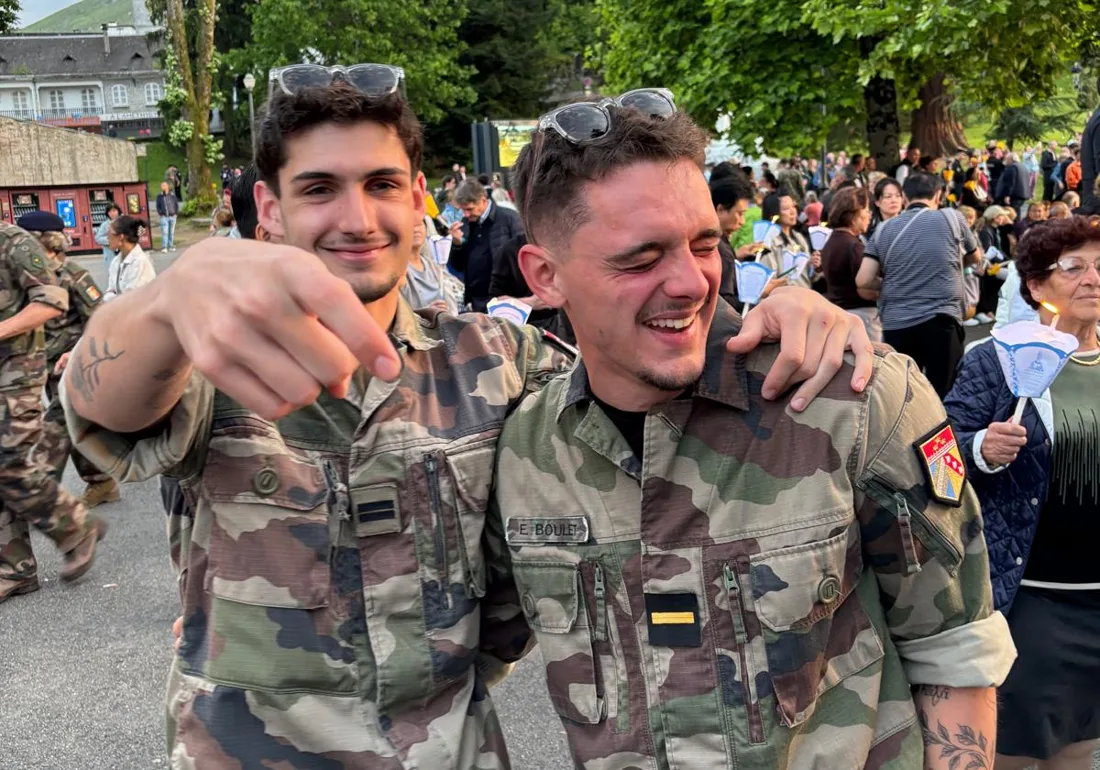
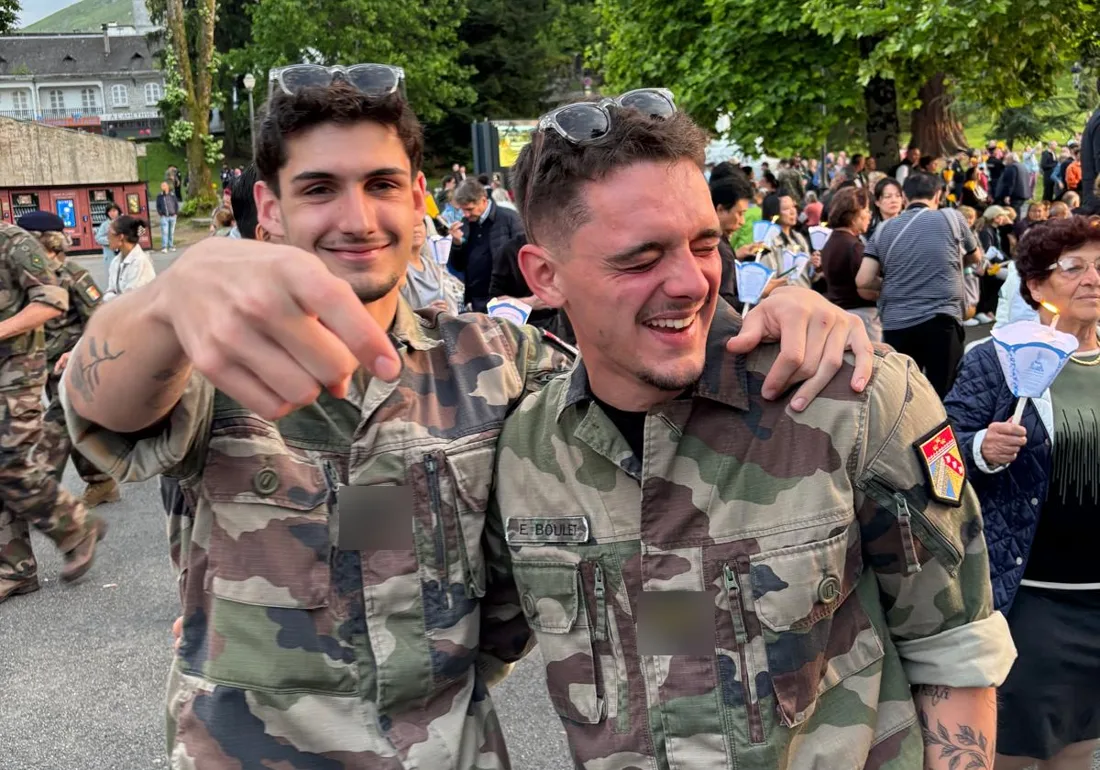
Affiche 03 : grades floutés sur les photos
Claude-Session: https://claude.ai/code/session_012wzja54trYe7YAVCXgccqo

Changed region(s): [[0.5564, 0.7481, 0.6491, 0.8727], [0.3091, 0.6234, 0.3709, 0.7169]]

diff --git a/index.html b/index.html
@@ -196,7 +196,7 @@ const P = [
    txt:[["Le programme","Stratégie de marque et marketing digital, réseaux sociaux et création de contenu, gestion de projet en équipe, présentations orales : tout ce qui fait tourner une marque aujourd'hui."],["Pourquoi ce choix","L'esport vit sur le digital : communautés, streams, réseaux sociaux, partenariats de marques. Je veux savoir piloter ces leviers pour une structure ou un événement."]], ph:[]},
   {n:3, deb:821, fin:827, c1:"#ce182c", eyebrow:"03 · Expérience", title:"Gendarme Adjoint Volontaire",
    facts:["2024 — 2026 · 2 ans","Rigueur · sang-froid · équipe","Terrain & gestion du public"],
-   txt:[["Missions","Sécurité publique et patrouilles, accueil et gestion du public, gestion des effectifs, interventions en équipe de jour comme de nuit, dans le respect strict des procédures."],["Ce que j'en retire","Gérer une foule et ses flux, anticiper les risques, rester calme quand la situation se tend, être fiable et à l'heure. Ces deux années m'ont surtout appris à me connaître : mes limites, ma façon de réagir sous pression, ce qui me motive. J'en suis ressorti plus mûr, plus sûr de moi et avec une idée claire de la personne que je veux devenir."]], ph:[["img/p3/patrouille.webp","Avant la patrouille","a"],["img/p3/camarades.webp","Entre camarades","b"],["img/p3/terrain.webp","Sur le terrain","c"]]},
+   txt:[["Missions","Sécurité publique et patrouilles, accueil et gestion du public, gestion des effectifs, interventions en équipe de jour comme de nuit, dans le respect strict des procédures."],["Ce que j'en retire","Gérer une foule et ses flux, anticiper les risques, rester calme quand la situation se tend, être fiable et à l'heure. Ces deux années m'ont surtout appris à me connaître : mes limites, ma façon de réagir sous pression, ce qui me motive. J'en suis ressorti plus mûr, plus sûr de moi et avec une idée claire de la personne que je veux devenir."]], ph:[["img/p3/patrouille.webp","Avant la patrouille","a"],["img/p3/camarades.webp?v=2","Entre camarades","b"],["img/p3/terrain.webp?v=2","Sur le terrain","c"]]},
   {n:4, deb:899, fin:905, c1:"#f0326e", eyebrow:"04 · Esport", title:"Vainqueur EWC 2026 Paris",
    facts:["Tournoi communautaire Valorant","Finale en 1v1 gagnée 10 – 4","Esports World Cup · Paris"],
    txt:[["Le tournoi","Tournoi communautaire Valorant organisé pendant l'Esports World Cup à Paris. J'ai remporté la finale en 1v1, <b>10 à 4</b>, le 12 juillet 2026."],["Mon esport","Je suis la scène de près : Valorant Worlds 2025, EWC 2026, environ un grand événement par an, et supporter de <b>Gentle Mates</b>. Je connais l'ambiance d'une salle et ce qui fait vibrer une communauté."]], ph:[]},
